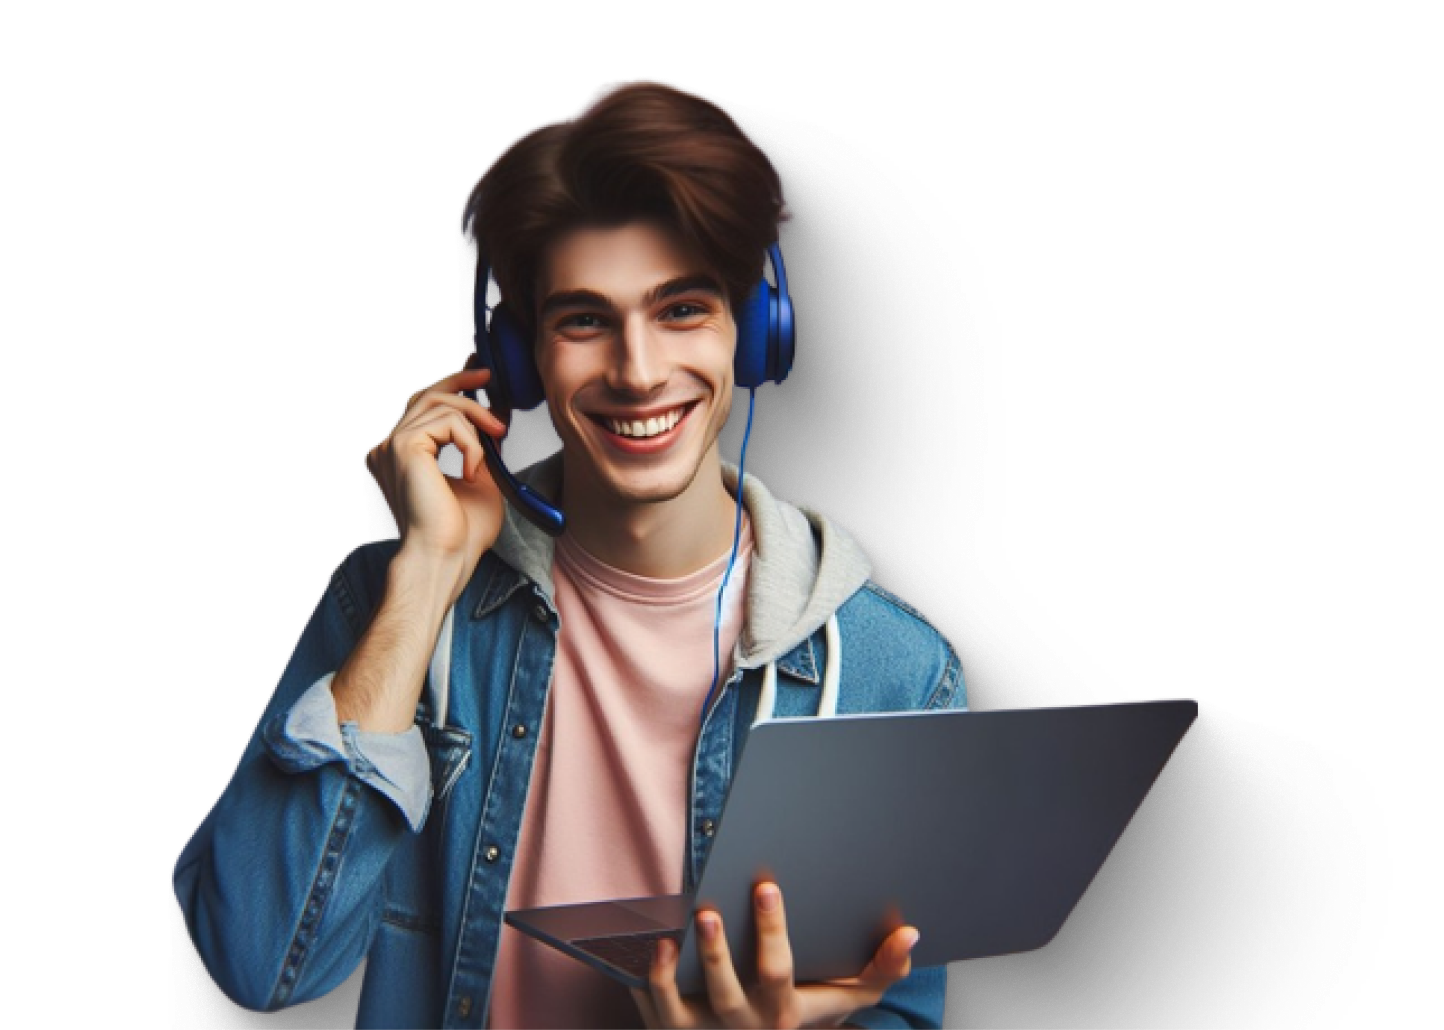
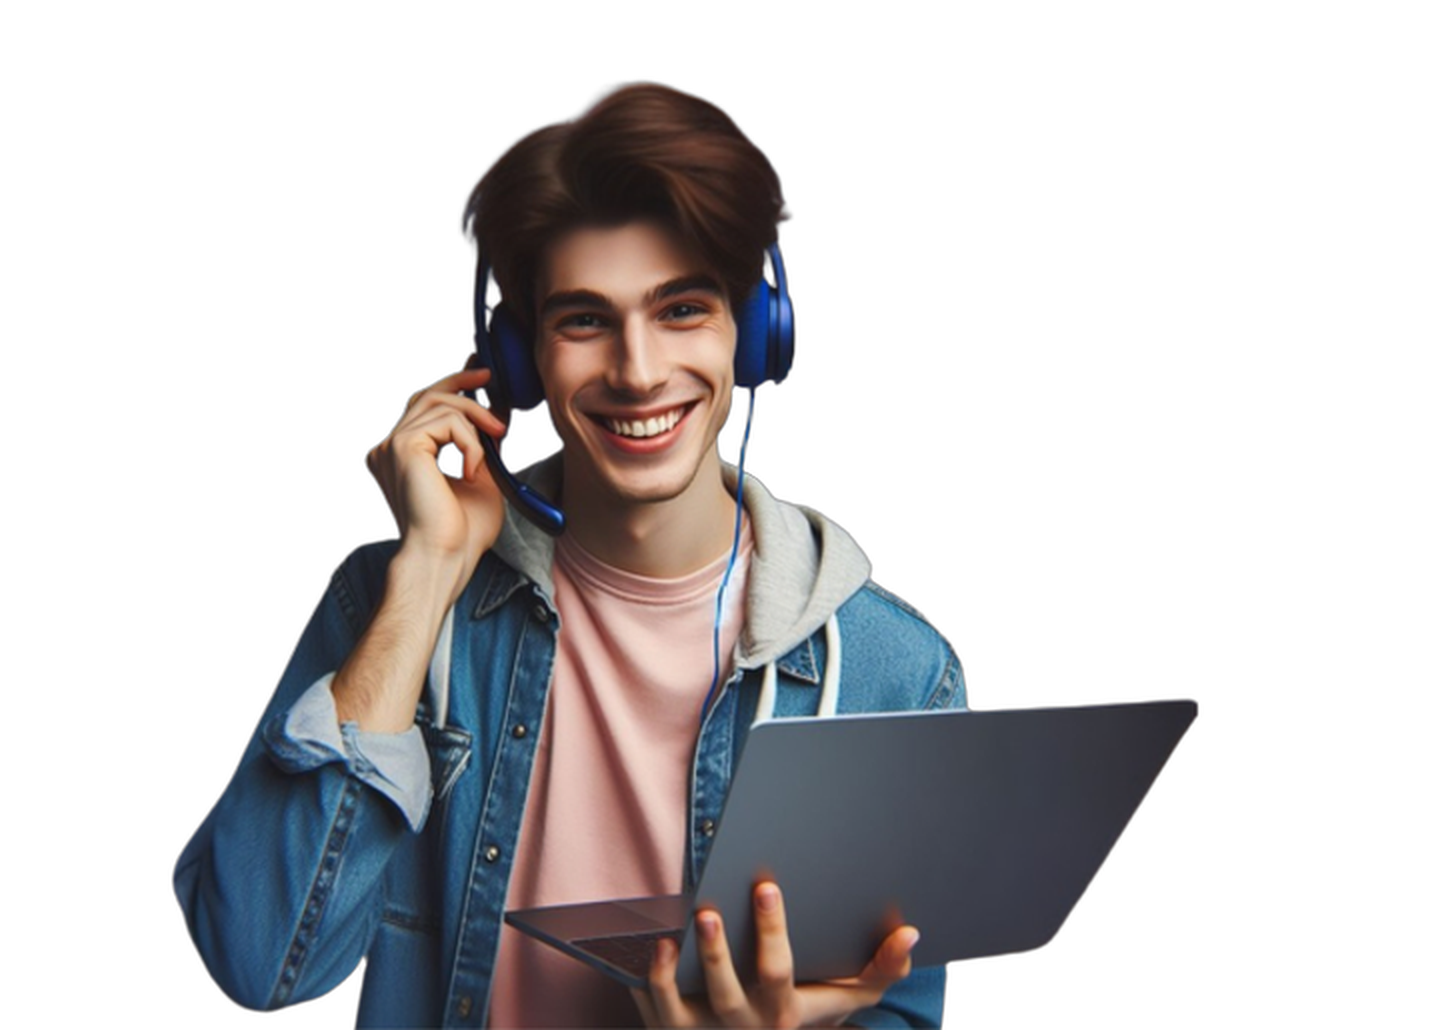
fix(hero): remove white box background on hero person for clean cutout against lime arch

diff --git a/src/components/Hero/Hero.tsx b/src/components/Hero/Hero.tsx
@@ -2,29 +2,38 @@ import { Header } from '../Header/Header';
 
 export function Hero() {
   return (
-    <section className="relative overflow-hidden bg-brand text-subtle">
-      {/* Background Grid */}
+    <section className="relative overflow-hidden bg-brand text-subtle min-h-[980px] lg:h-[1024px]">
+      {/* Background Grid (Figma Node #12:224) */}
       <img
         src="/assets/hero/hero-grid.svg"
         alt=""
         aria-hidden="true"
-        className="pointer-events-none absolute left-1/2 top-0 h-[1024px] w-[1440px] -translate-x-1/2 max-w-none opacity-20"
+        className="pointer-events-none absolute left-1/2 top-0 h-[1024px] w-[1440px] -translate-x-1/2 max-w-none opacity-15"
       />
 
-      {/* Exact 3D Ornaments from Figma (Node #46:79) */}
-      <img
-        src="/assets/hero/ornament.png"
-        alt=""
+      {/* Solid Lime Arc / Circle behind Hero Person (Figma Node #1:1866) */}
+      <div
         aria-hidden="true"
-        className="pointer-events-none absolute left-1/2 top-0 h-[1024px] w-[1440px] -translate-x-1/2 max-w-none object-contain"
+        className="pointer-events-none absolute left-1/2 top-[460px] h-[1050px] w-[1050px] -translate-x-1/2 rounded-full bg-[#CBFC01]"
       />
+
+      {/* Exact 3D Ornaments from Figma (Node #46:79 at y: 221px, width: 1719px) */}
+      <div className="pointer-events-none absolute left-1/2 top-[180px] h-[800px] w-[1720px] -translate-x-1/2" aria-hidden="true">
+        <img
+          src="/assets/hero/ornament.png"
+          alt=""
+          width={1719}
+          height={803}
+          className="h-full w-full object-contain"
+        />
+      </div>
 
       <Header />
 
-      <div className="relative z-10 mx-auto flex w-[1200px] max-w-full flex-col items-center gap-[40px] px-6 pt-[30px]">
+      <div className="relative z-10 mx-auto flex w-[1200px] max-w-full flex-col items-center gap-[40px] px-6 pt-[20px]">
         {/* Hero Title & Subtext */}
         <div className="flex flex-col items-center gap-6 text-center">
-          <h1 className="max-w-[935px] font-heading text-[48px] sm:text-[60px] lg:text-[72px] font-semibold leading-[1.15] tracking-[-0.02em] text-white">
+          <h1 className="max-w-[935px] font-heading text-[44px] sm:text-[56px] lg:text-[72px] font-semibold leading-[1.15] tracking-[-0.02em] text-white">
             Get Access to Hundreds
             <br />
             Courses Available
@@ -68,25 +77,19 @@ export function Hero() {
         </form>
       </div>
 
-      {/* Hero Visual Presentation with Solid Lime Arc & Floating Badges */}
-      <div className="relative mx-auto mt-6 h-[460px] sm:h-[500px] w-full max-w-[800px] px-4">
-        {/* Solid Lime Dome / Semi-Circle Arc directly behind the person (Figma Node #1:1866) */}
-        <div
-          aria-hidden="true"
-          className="pointer-events-none absolute bottom-0 left-1/2 h-[340px] sm:h-[390px] w-[540px] sm:w-[620px] -translate-x-1/2 rounded-t-full bg-[#CBFC01]"
-        />
-
+      {/* Hero Visual Area with Person & 3 Floating Metric Badges */}
+      <div className="relative mx-auto mt-4 h-[480px] sm:h-[520px] w-full max-w-[760px] px-4">
         {/* Main Hero Person */}
         <img
           src="/assets/hero/hero-person.png"
           alt="A course creator presenting to students"
           width={578}
           height={541}
-          className="relative z-10 mx-auto h-[460px] sm:h-[500px] w-auto max-w-full object-contain"
+          className="relative z-10 mx-auto h-[480px] sm:h-[530px] w-auto max-w-full object-contain"
         />
 
-        {/* Floating Badge 1: UI/UX Design (Figma Node #46:126) */}
-        <div className="absolute left-2 sm:left-4 top-[100px] z-20 rounded-[18px] bg-white p-4 shadow-xl">
+        {/* Badge 1: UI/UX Design (Figma Node #46:126) */}
+        <div className="absolute left-2 sm:-left-4 top-[100px] z-20 rounded-[16px] bg-white p-4 shadow-xl">
           <p className="font-medium text-[15px] leading-[1.2] text-ink">UI/UX Design</p>
           <div className="mt-1 flex items-center gap-2 text-[12px] text-muted">
             <span>200 Courses</span>
@@ -95,8 +98,8 @@ export function Hero() {
           </div>
         </div>
 
-        {/* Floating Badge 2: Learning Progress 55% (Figma Node #1:1797) */}
-        <div className="absolute right-2 sm:right-6 top-[80px] z-20 w-[200px] sm:w-[220px] rounded-[18px] bg-white p-4 shadow-xl">
+        {/* Badge 2: Learning Progress 55% (Figma Node #1:1797) */}
+        <div className="absolute right-2 sm:-right-4 top-[80px] z-20 w-[200px] sm:w-[220px] rounded-[16px] bg-white p-4 shadow-xl">
           <p className="text-[13px] font-medium leading-[1.2] text-ink">Learning Progress</p>
           <p className="mt-1 font-heading text-[38px] sm:text-[44px] font-semibold leading-[1.1] tracking-[-0.01em] text-ink">
             55%
@@ -106,8 +109,8 @@ export function Hero() {
           </div>
         </div>
 
-        {/* Floating Badge 3: Happy Students with Avatar Stack (Figma Node #1:1821) */}
-        <div className="absolute left-4 sm:left-12 bottom-4 z-20 rounded-[18px] bg-white p-4 shadow-xl">
+        {/* Badge 3: Happy Students with Avatar Stack (Figma Node #1:1821) */}
+        <div className="absolute left-4 sm:left-2 bottom-4 z-20 rounded-[16px] bg-white p-4 shadow-xl">
           <div className="flex items-center justify-between gap-4">
             <p className="text-[14px] font-medium leading-[1.2] text-ink">Happy Students</p>
             <div className="flex items-center gap-1 text-[12px] text-muted">
